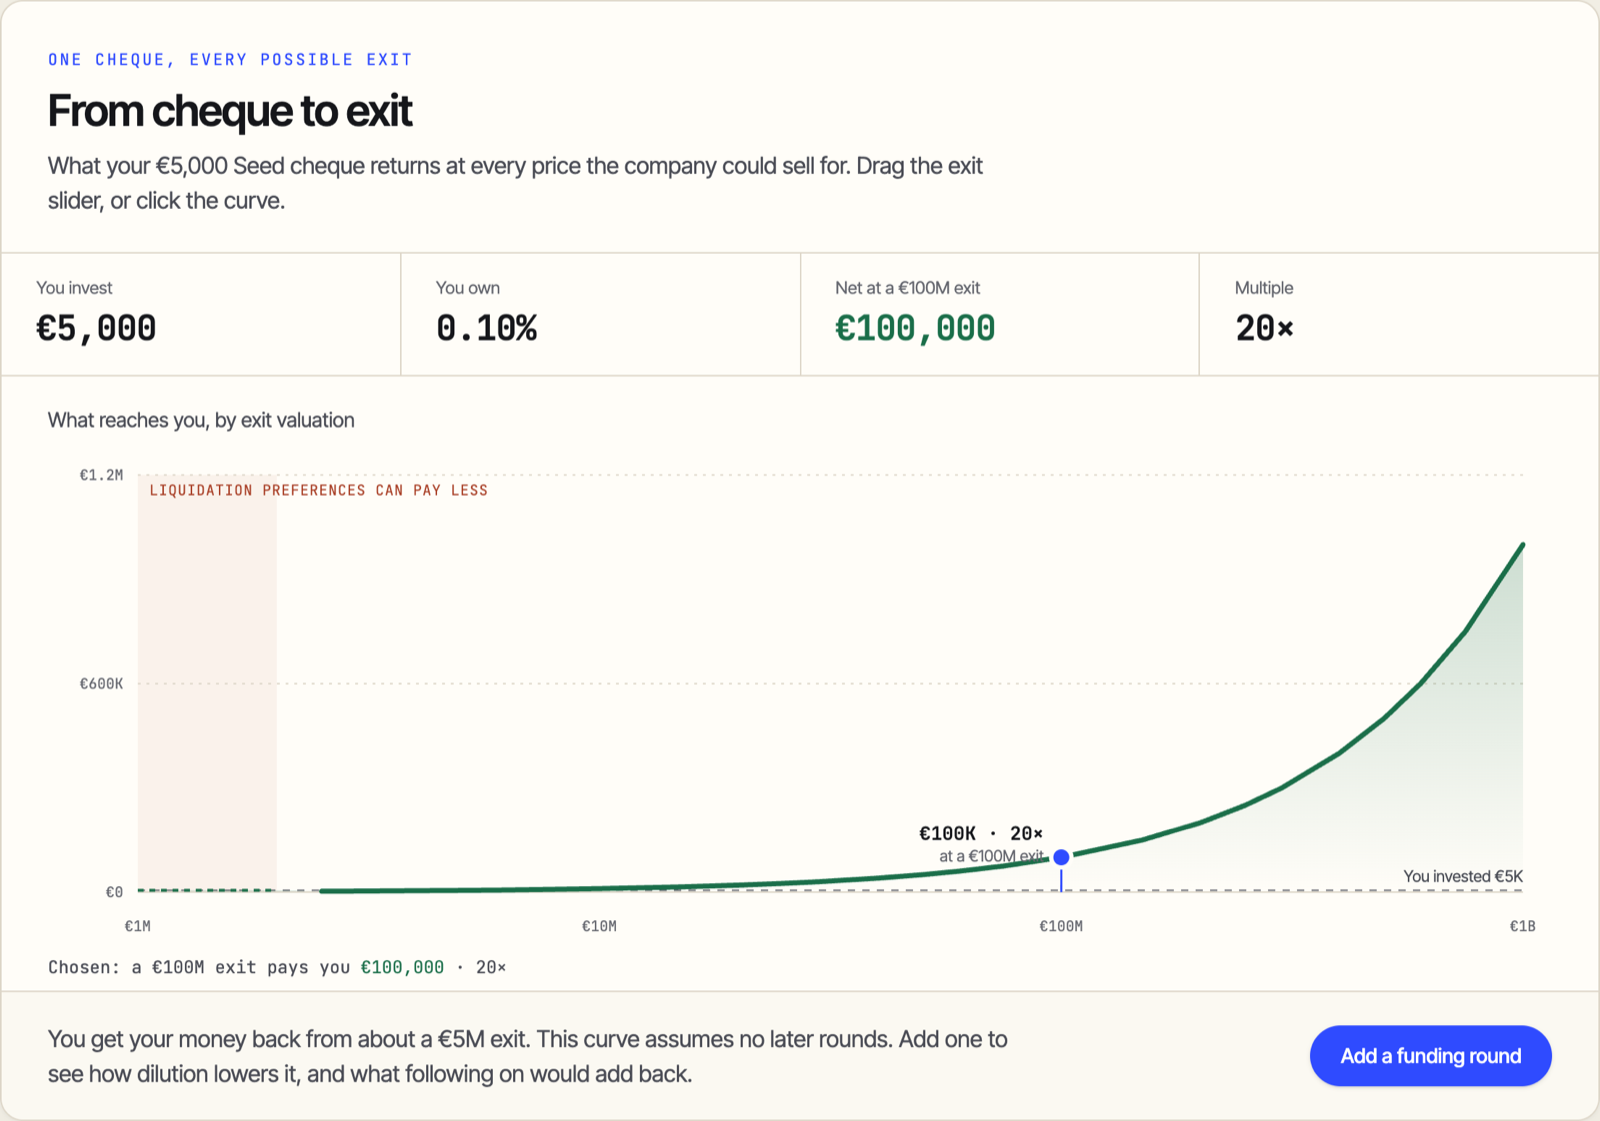
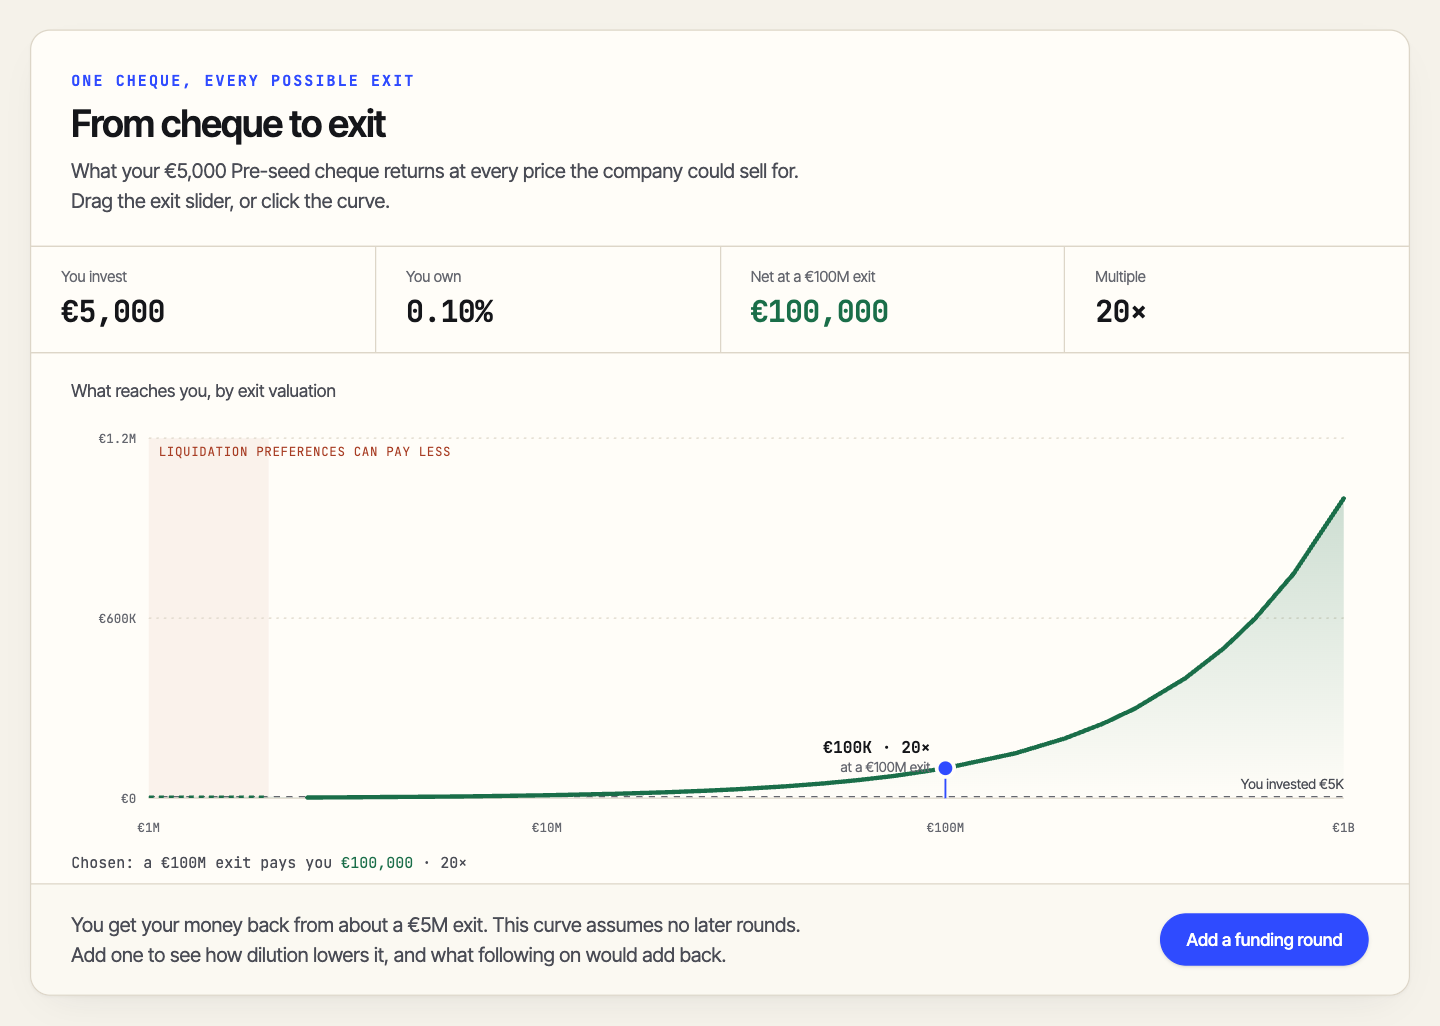
README: retake the screenshots and bring the copy up to date
Ten screenshots are retaken from the current site: the new hero headline
and promises, the Pre-seed starting point with the flag currency switch,
the €5,000 instruments section with its comparison table, and the SAFE,
maturity, follow-on, stake table, return curve, maths and phone views.
The PDF screenshot still matches and is kept.

Captions follow the new screens, the test count is 437, and the
instruments paragraph describes the table's three groups.

diff --git a/README.md b/README.md
@@ -26,12 +26,12 @@ A free angel investment calculator that shows what your startup stake becomes as
   <img alt="TypeScript strict" src="https://img.shields.io/badge/TypeScript-strict-3178c6?logo=typescript&logoColor=white">
   <img alt="Vite 8" src="https://img.shields.io/badge/Vite-8-646cff?logo=vite&logoColor=white">
   <img alt="Tailwind CSS 4" src="https://img.shields.io/badge/Tailwind-4-38bdf8?logo=tailwindcss&logoColor=white">
-  <img alt="Vitest: 438 tests" src="https://img.shields.io/badge/Vitest-438%20tests-6e9f18?logo=vitest&logoColor=white">
+  <img alt="Vitest: 437 tests" src="https://img.shields.io/badge/Vitest-437%20tests-6e9f18?logo=vitest&logoColor=white">
   <img alt="Python oracle: 105 checks" src="https://img.shields.io/badge/Python%20oracle-105%20checks-3776ab?logo=python&logoColor=white">
   <img alt="Cloudflare Workers" src="https://img.shields.io/badge/Cloudflare-Workers-f38020?logo=cloudflare&logoColor=white">
 </p>
 
-![The tinypercent landing page: a €5,000 pre-seed cheque diluted to 0.051% and worth €51,200 at a €100M exit, with "Collects no data, No tracking, Educational, always free" under the Use calculator button and a Buy me a coffee button](docs/screenshots/hero.png)
+![The tinypercent landing page: "From first cheque to exit, in your own numbers", a €5,000 pre-seed cheque diluted to 0.051% and worth €51,200 at a €100M exit, three promises under the Use calculator button (runs in your browser; no data, no tracking; free and educational) and a Buy me a coffee button](docs/screenshots/hero.png)
 
 ## Why it exists
 
@@ -59,7 +59,7 @@ Spreadsheets answer that badly, and full cap-table tools ask for numbers an ange
 
 Enter your cheque and the rounds that follow. At each round, choose to sit out, pay your pro-rata to hold your share, or invest a different amount. Every choice updates your ownership, the paper value of your stake, and the return at exit, as you type.
 
-![The calculator: a €5,000 seed cheque, a Series A, the exit slider, the investment summary, the Copy link and Download PDF bar, and a Buy me a coffee line](docs/screenshots/calculator.png)
+![The calculator as a first visit sees it: a €5,000 pre-seed cheque, the euro and dollar flags, an empty future-rounds area, the exit slider, the investment summary, the Copy link and Download PDF bar, and a Buy me a coffee line](docs/screenshots/calculator.png)
 
 ### Follow on or sit out?
 
@@ -69,13 +69,13 @@ The same company, three ways: keeping your first cheque alone, paying your pro-r
 
 ### Every round in one table
 
-![Round-by-round table: valuation, cheque, ownership, dilution and paper value from Seed to a €250M exit](docs/screenshots/stake-table.png)
+![Round-by-round table: valuation, cheque, ownership, dilution and paper value from Pre-seed to a €250M exit](docs/screenshots/stake-table.png)
 
 ### One cheque, every possible exit
 
 Before any later rounds are added, a return curve shows what your cheque pays at every exit price, and flags the low exits where liquidation preferences could leave you with less.
 
-![Return curve for a €5,000 seed cheque across exits from €1M to €1B](docs/screenshots/exit-curve.png)
+![Return curve for a €5,000 pre-seed cheque across exits from €1M to €1B](docs/screenshots/exit-curve.png)
 
 ### SAFEs and convertible notes
 
@@ -101,9 +101,9 @@ Below the calculator, four cards work through the ideas that decide what a chequ
 
 ![The maths, briefly: four cards on equity, dilution, pro-rata and exit, each with a highlighted key idea and its arithmetic](docs/screenshots/learn.png)
 
-A second section puts **shares, a SAFE and a convertible note** side by side: one €5,000 cheque at a €5M valuation, invested three ways into the same Seed. Each card says why the instrument exists, highlights the result you actually get, and keeps when it works best one click away. A fourth card shows the case a SAFE protects you from, a next round priced below the cap, and a table compares all three.
+A second section puts **shares, a SAFE and a convertible note** side by side: one €5,000 cheque at a €5M valuation, invested three ways into the same Seed. Each card says why the instrument exists, highlights the result you actually get, and keeps when it works best one click away. A fourth card shows the case a SAFE and a note protect you from, a next round priced below the cap, and a table compares all three: what you put in, how each works, and what your €5,000 is worth after the Seed.
 
-![Shares, SAFE or convertible note: the same €25,000 three ways, with the winning conversion route highlighted and a cheaper next round](docs/screenshots/instruments.png)
+![Shares, SAFE or convertible note: the same €5,000 three ways, with the winning conversion route highlighted, a cheaper next round, and a table of what each is worth after the Seed](docs/screenshots/instruments.png)
 
 ### Free, and supported by the people who use it
 
@@ -112,7 +112,7 @@ tinypercent is built purely as an educational calculator: it collects no data, t
 ### Also
 
 - **Real round mechanics.** Pre-money or post-money valuations, new option pools created in a round, and pro-rata worked out for you.
-- **Euros or dollars**, and short shared links such as `tinypercent.com/shared#…`.
+- **Euros or dollars**, picked by flag, and short shared links such as `tinypercent.com/shared#…`.
 - **Works on a phone**, with a summary bar that stays in view as you scroll.
 
 <p align="center"><img src="docs/screenshots/phone.png" alt="tinypercent on a phone: the investment summary, the Copy link and Download PDF bar, a Buy me a coffee line, and the summary strip pinned to the bottom" width="320"></p>
@@ -142,7 +142,7 @@ $50,000 at a $10M post-money Series A, diluted to 0.32% by two later rounds. A $
 flowchart TB
   subgraph Build["Build and deploy: GitHub Actions on every push"]
     direction LR
-    O[Python oracle<br/>two independent models] -->|golden-cases.json| G[typecheck · lint<br/>438 tests · build]
+    O[Python oracle<br/>two independent models] -->|golden-cases.json| G[typecheck · lint<br/>437 tests · build]
     G -->|green on main:<br/>wrangler deploy| CF[Cloudflare Workers<br/>static assets]
   end
   subgraph Browser["In your browser: nothing leaves it"]
@@ -162,7 +162,7 @@ flowchart TB
 | **PDF** | jsPDF, loaded only when someone downloads a report. Built-in Helvetica, so no font is embedded and a report is about 6 KB |
 | **State and sharing** | One reducer for the whole scenario. Links compress it with the browser's `CompressionStream` into the URL fragment, so it never reaches a server |
 | **Rendering** | Every page prerendered to static HTML at build time, with sitemap and robots.txt, so content loads before any JavaScript runs |
-| **Testing** | 438 Vitest tests across 35 files (unit, property-based and render tests), plus an independent Python oracle: 105 assertions across 23 golden cases |
+| **Testing** | 437 Vitest tests across 35 files (unit, property-based and render tests), plus an independent Python oracle: 105 assertions across 23 golden cases |
 | **CI/CD** | GitHub Actions: typecheck, lint, tests, oracle drift check and build on every push; a green push to `main` deploys with Wrangler |
 | **Hosting** | Cloudflare Workers static assets at tinypercent.com, with a strict Content Security Policy and security headers on every response |
 
